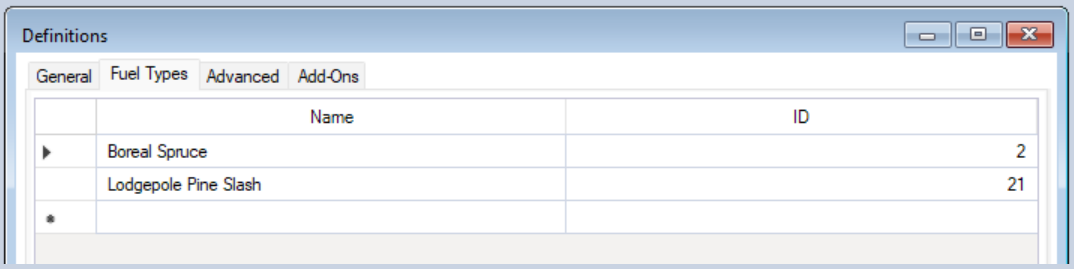
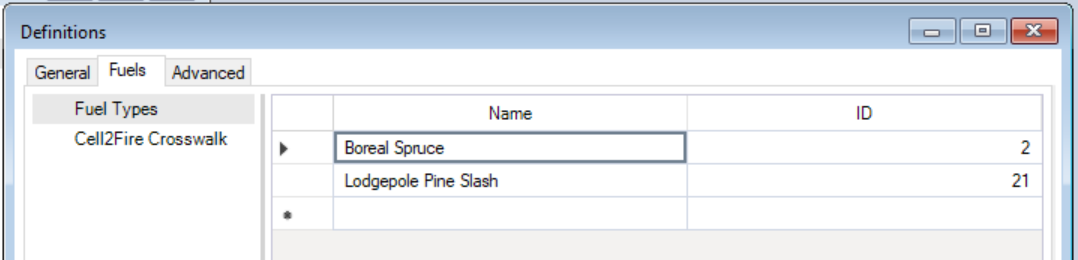
Update tutorial for new project layout

diff --git a/getting_started.md b/getting_started.md
@@ -81,11 +81,11 @@ This information can be found by selecting **File > Library Properties** and nav
 
 Next, on the **Library Explorer** window, double click on **Definitions**. Definitions are [*Project Datafeeds*](https://docs.syncrosim.com/how_to_guides/library_overview.html){:target="_blank"} containing data shared across all *Scenarios* for a *Project*. 
 
-Navigate to the **Fuel Types** tab, where you will find a **Name** list for each of the fuel types present in the fuel grid, which the model requires as input. For the purposes of this Quickstart tutorial, the *Library* template was pre-loaded with a fuel grid with two fuel types: **Boreal Spruce** and **Lodgepole Pine Slash**. Each **Name** is associated with an **ID** that must correspond to the labels given to each fuel type in the fuel grid loaded for each scenario. 
+Navigate to the **Fuels** tab, under **Fuel Types** you will find a **Name** list for each of the fuel types present in the fuel grid, which the model requires as input. For the purposes of this Quickstart tutorial, the *Library* template was pre-loaded with a fuel grid with two fuel types: **Boreal Spruce** and **Lodgepole Pine Slash**. Note that these names are free-form and can be arbitrary. Each **Name** is associated with an **ID** that must correspond to the labels given to each fuel type in the fuel grid loaded for each scenario. 
 
 <img align="middle" style="padding: 3px" width="600" src="assets/images/BurnP3Plus-screenshot-6.png">
 
-Next, navigate to the **Add-Ons** tab. Under **Cell2Fire fire growth model add-on > Cell2Fire Fuel Code Crosswalk**, each fuel type listed under the **Fuel Types** tab needs to be linked to the fuel codes recognized by Cell2Fire. In the case of these two fuel types, Cell2Fire recognizes the Canadian Forest Service Fuel Codes [C2](https://cwfis.cfs.nrcan.gc.ca/background/fueltypes/c2){:target="_blank"} and [S1](https://cwfis.cfs.nrcan.gc.ca/background/fueltypes/c2){:target="_blank"}.
+Next, under **Cell2Fire Crosswalk**, each fuel type listed under the **Fuel Types** tab needs to be linked to one of the fuel codes recognized by Cell2Fire. In the case of these two fuel types, Cell2Fire recognizes the Canadian Forest Service Fuel Codes [C2](https://cwfis.cfs.nrcan.gc.ca/background/fueltypes/c2){:target="_blank"} and [S1](https://cwfis.cfs.nrcan.gc.ca/background/fueltypes/c2){:target="_blank"}.
 
 <img align="middle" style="padding: 3px" width="600" src="assets/images/BurnP3Plus-screenshot-7.png">
 
